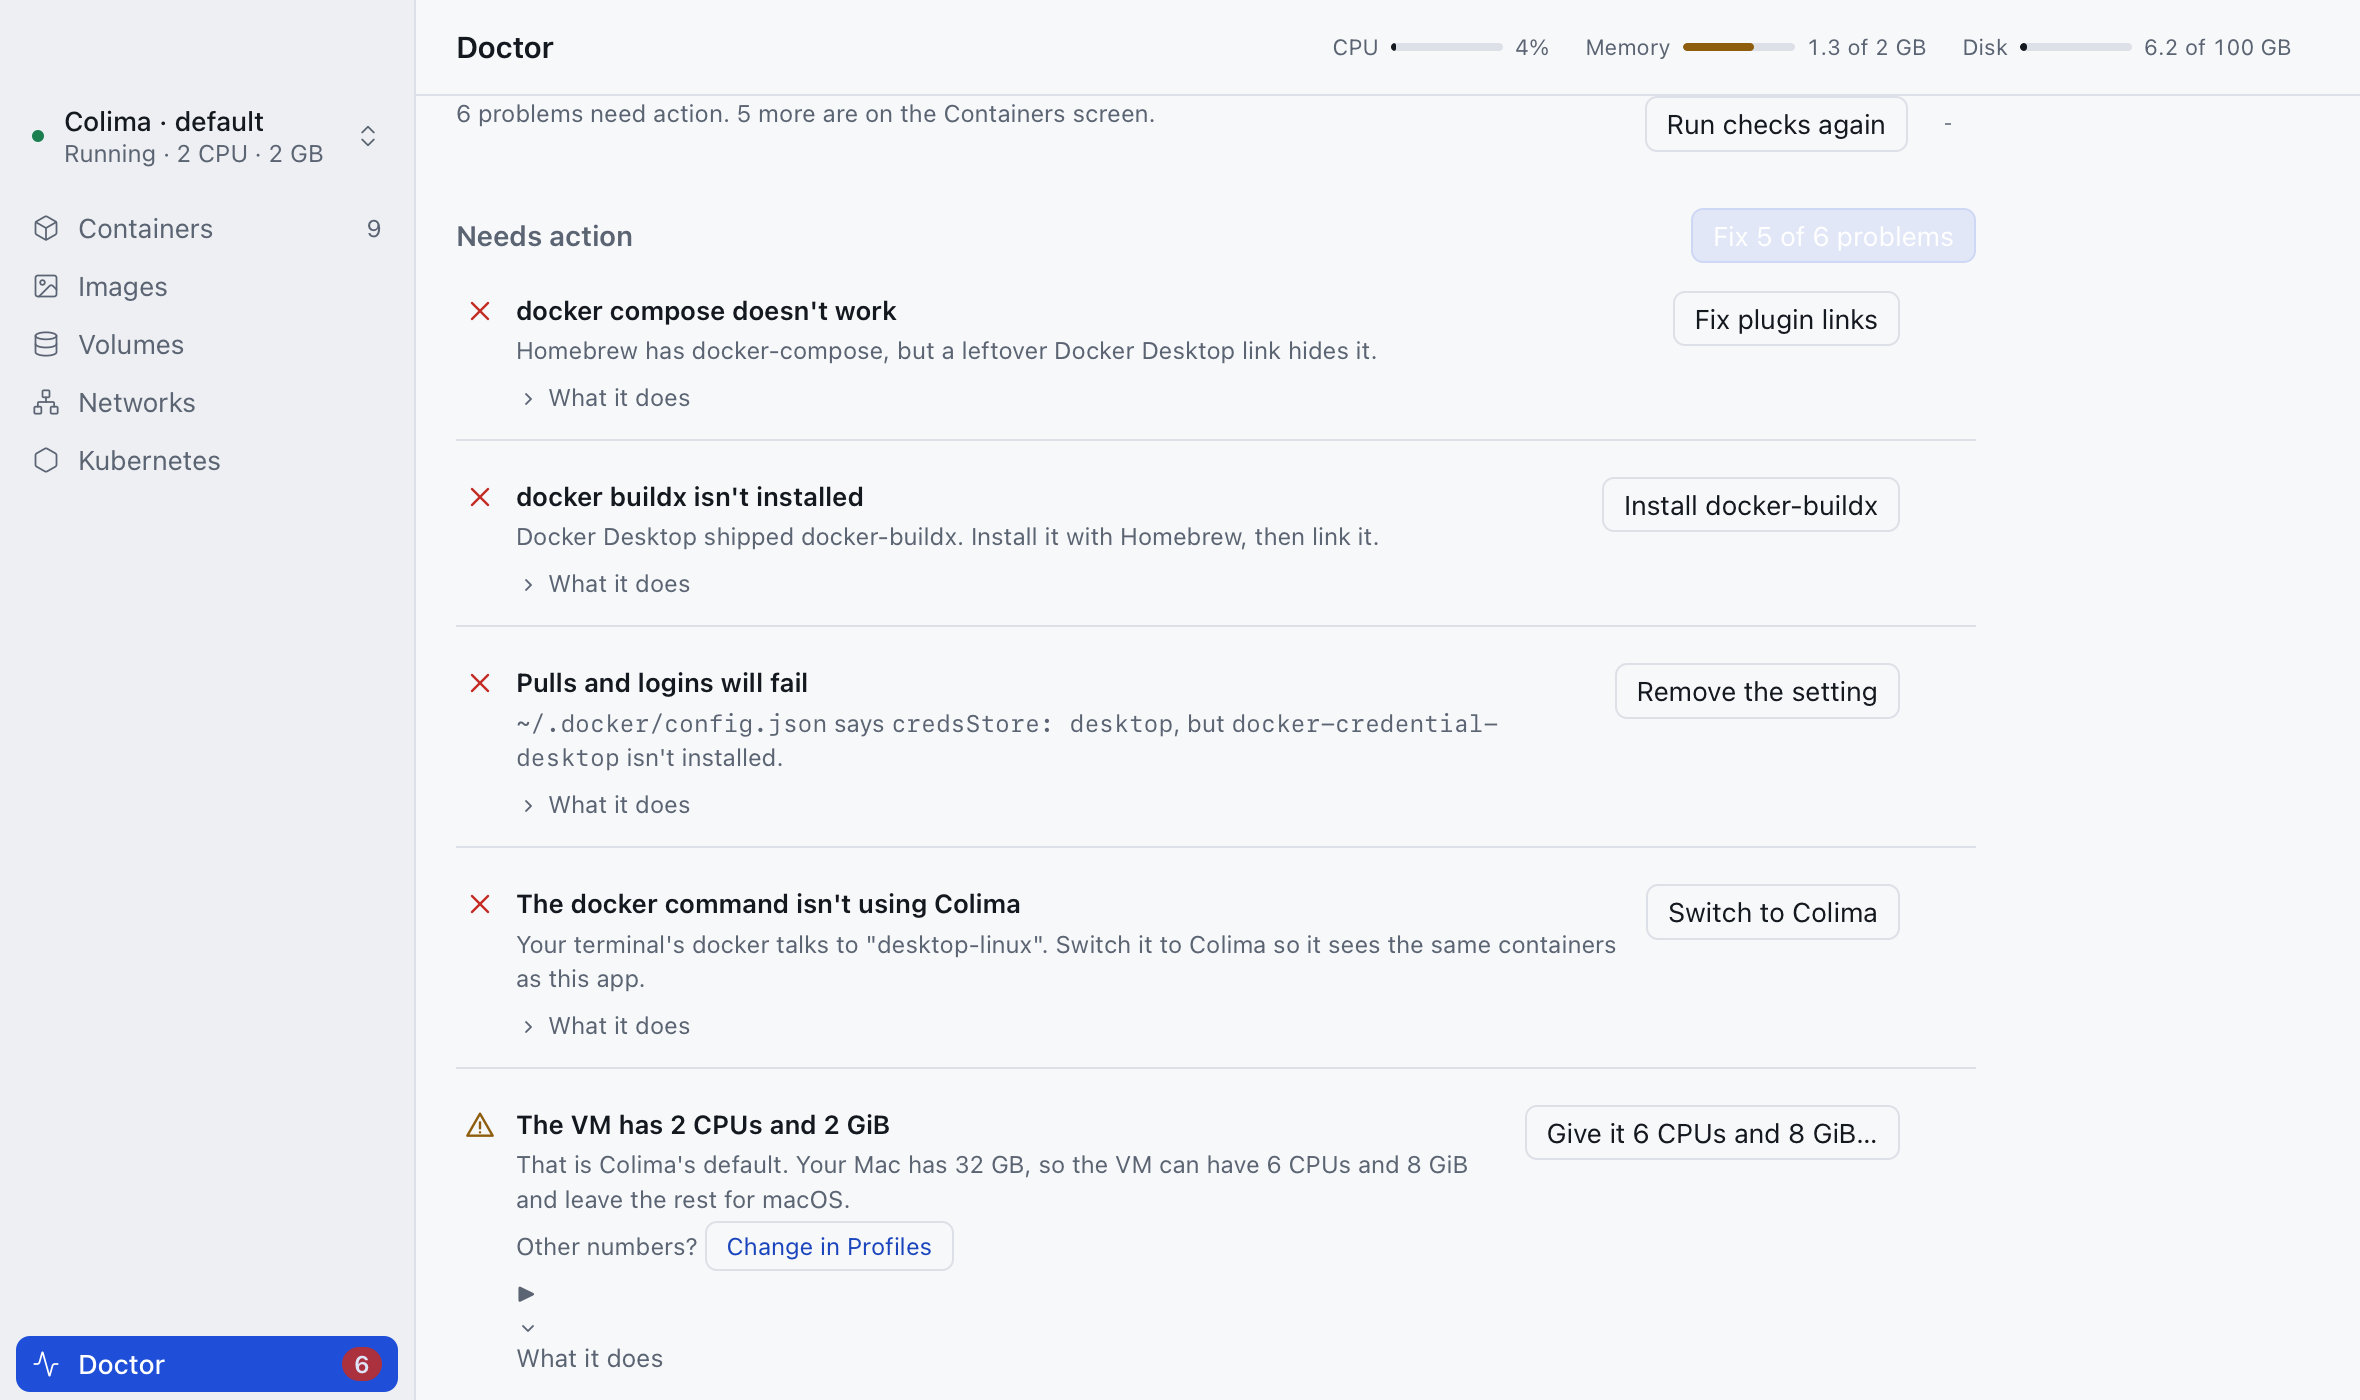
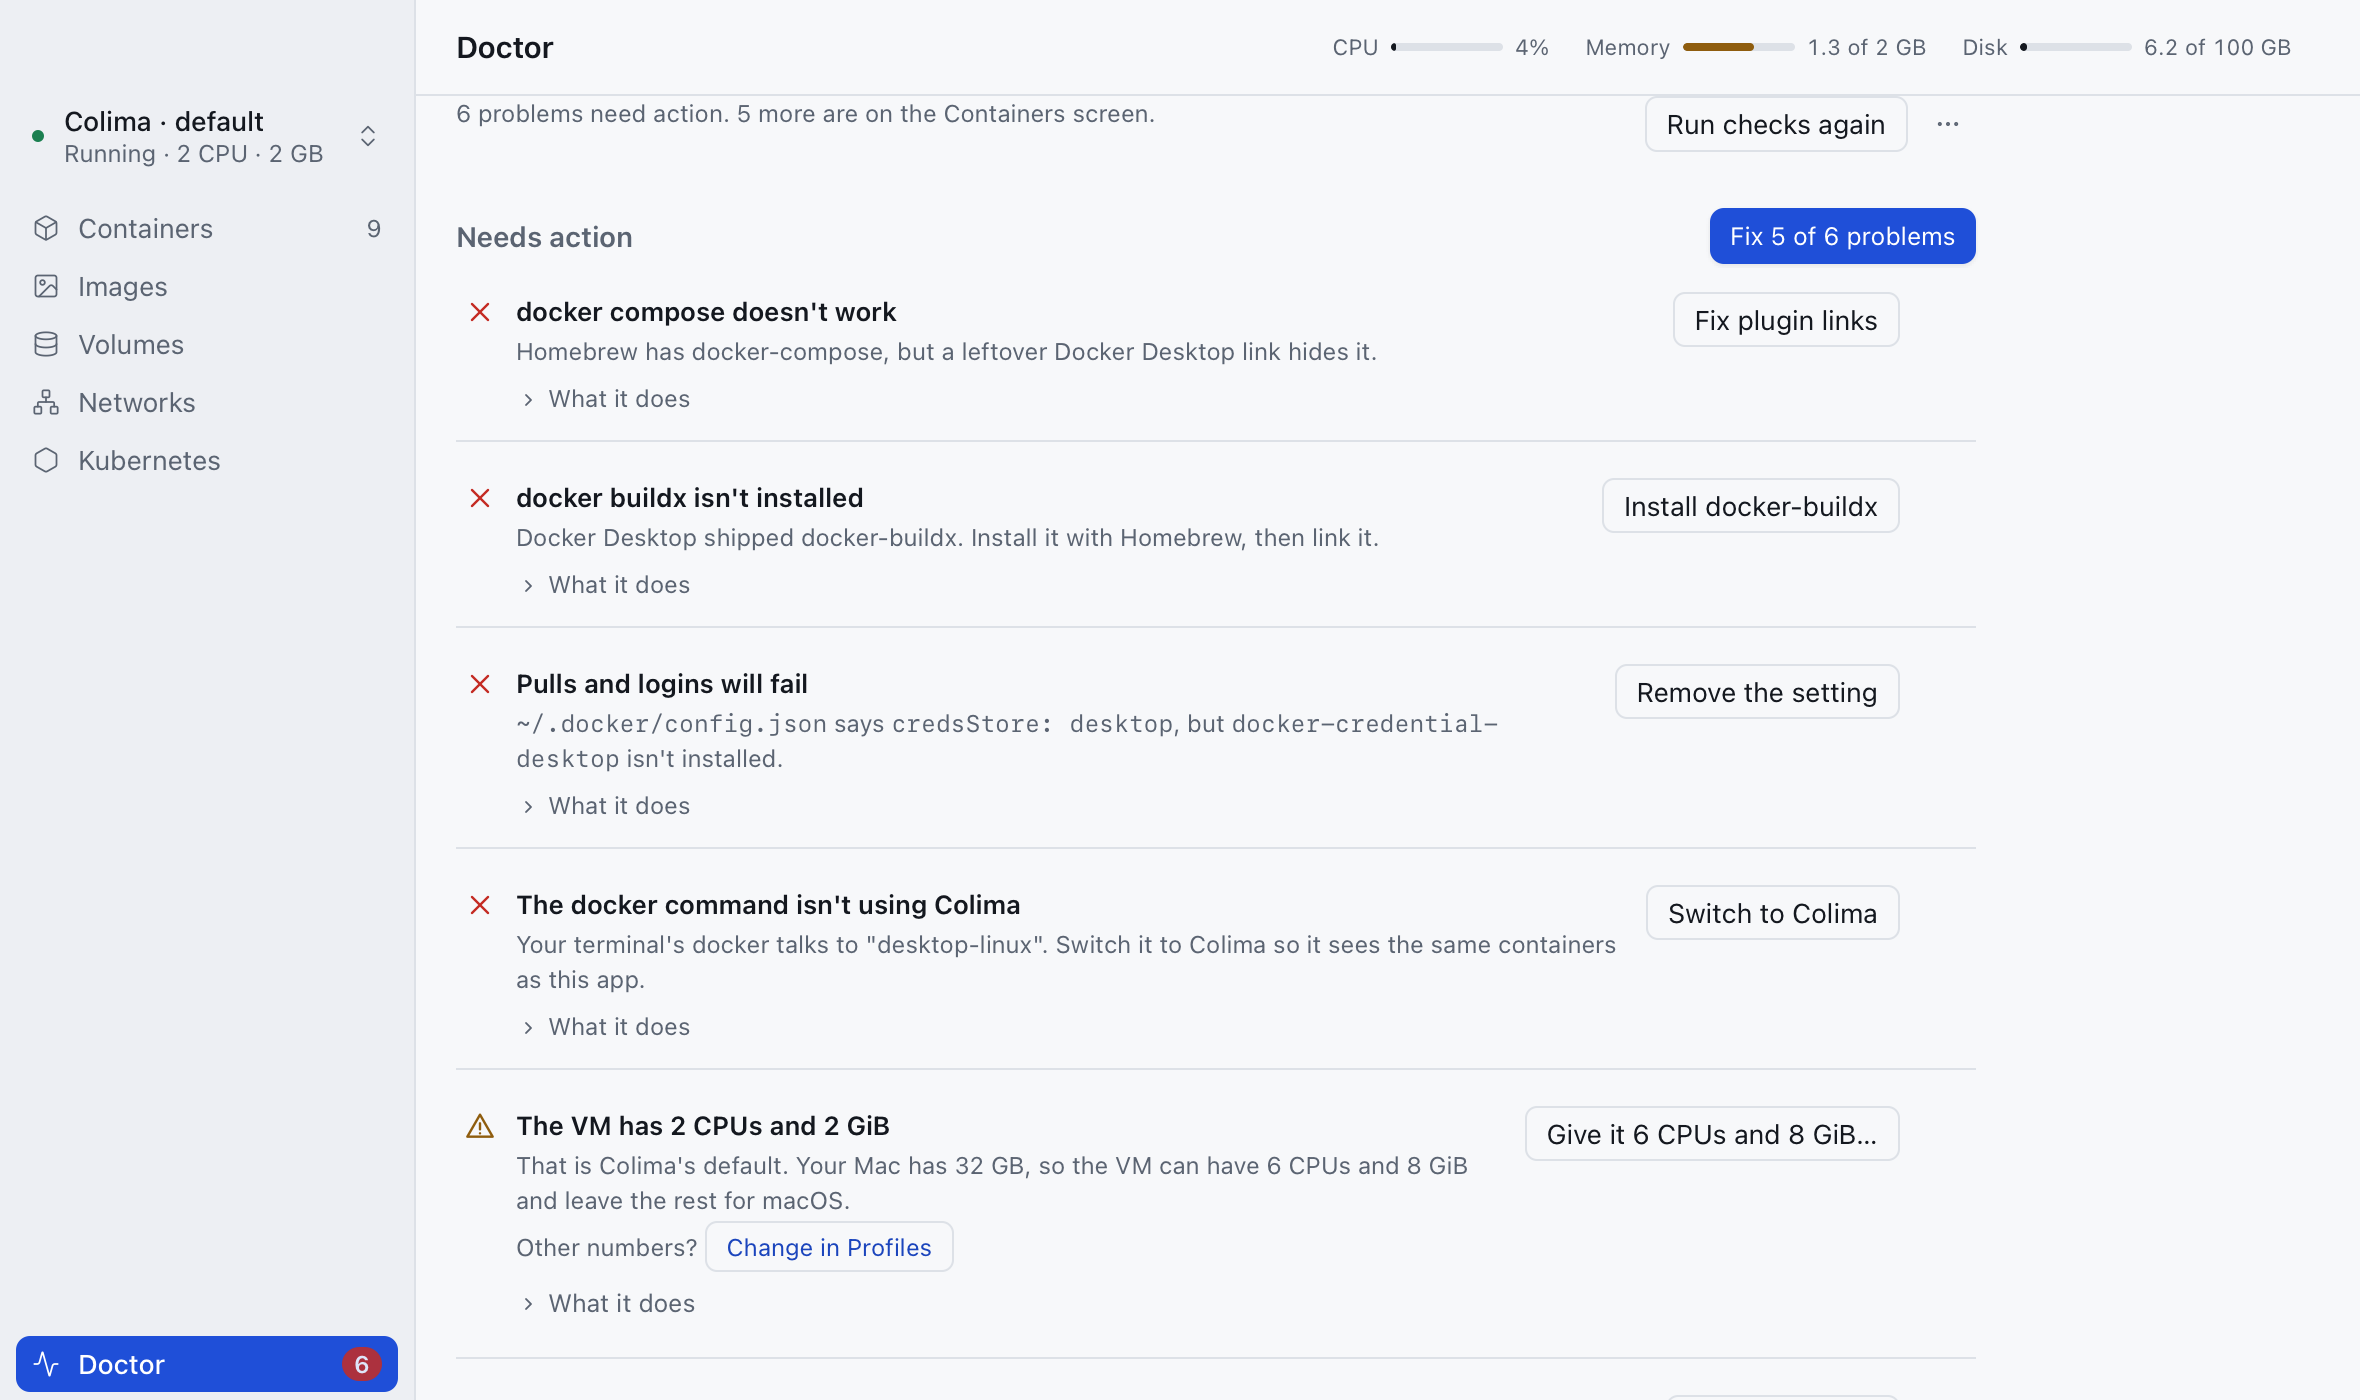
docs: real repo name, retaken screenshots, changelog for the first-run fixes

diff --git a/CHANGELOG.md b/CHANGELOG.md
@@ -14,7 +14,10 @@ Newest first. Older entries record what was true when they were written; later e
 8. **Keyboard shortcuts in one place.** One list drives the shortcuts, the Help screen and the command palette.
 9. **New window layout.** The sidebar shows usage meters, and Doctor stays in view.
 10. **One design system.** The screens use Tailwind CSS (version 4), and every colour, size and shadow comes from one set of design tokens.
-11. **For contributors:** `npm run preview` runs the screens in a browser with simulated data. No Mac app or Rust is needed.
+11. **A stopped Colima no longer crashes the app.** The Machines list loads a machine that is not running, and New machine opens centred.
+12. **First start is one card.** A stopped engine shows one card with a single Start button and a plain way to choose the size first. While it starts, one card shows the command and its output.
+13. **Buttons and messages look finished.** Primary buttons are solid, Delete is red, and the command notice has proper spacing.
+14. **For contributors:** `npm run preview` runs the screens in a browser with simulated data. No Mac app or Rust is needed.
 
 ## Design system rollout: all tabs migrated to @ui/components
 

diff --git a/README.md b/README.md
@@ -8,7 +8,7 @@ OpenPier is a native Mac app for container runtimes: [Colima](https://github.com
 
 ## Install in one line
 
-    curl -fsSL https://raw.githubusercontent.com/OWNER/REPO/main/scripts/install.sh | sh
+    curl -fsSL https://raw.githubusercontent.com/BitVerseNomad/container-ui/main/scripts/install.sh | sh
 
 That's it. The line downloads the app, puts it in Applications and opens it. Is Colima missing? The app installs it for you. Run the same line again to update.
 

diff --git a/CONTRIBUTING.md b/CONTRIBUTING.md
@@ -6,7 +6,7 @@ Thanks for wanting to help. OpenPier is a Tauri 2 (Rust + React/TypeScript) desk
 
 ```bash
 # Clone and install
-git clone https://github.com/OWNER/REPO.git
+git clone https://github.com/BitVerseNomad/container-ui.git
 cd openpier
 npm install
 
